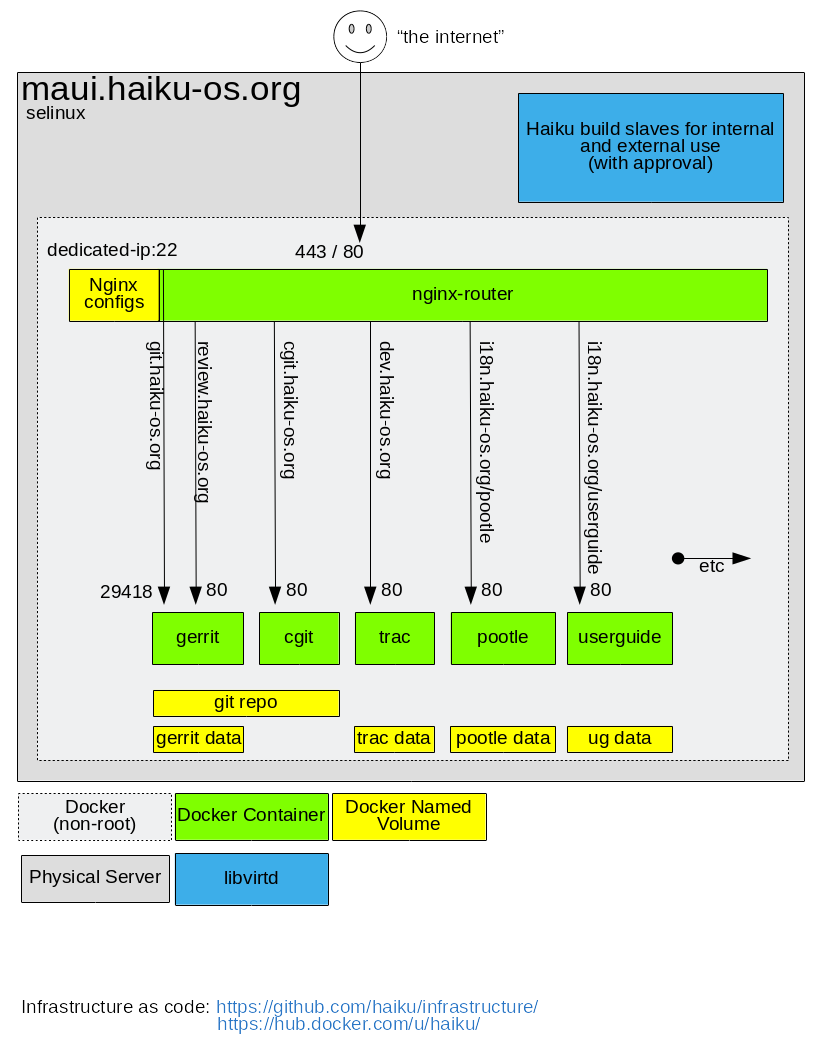
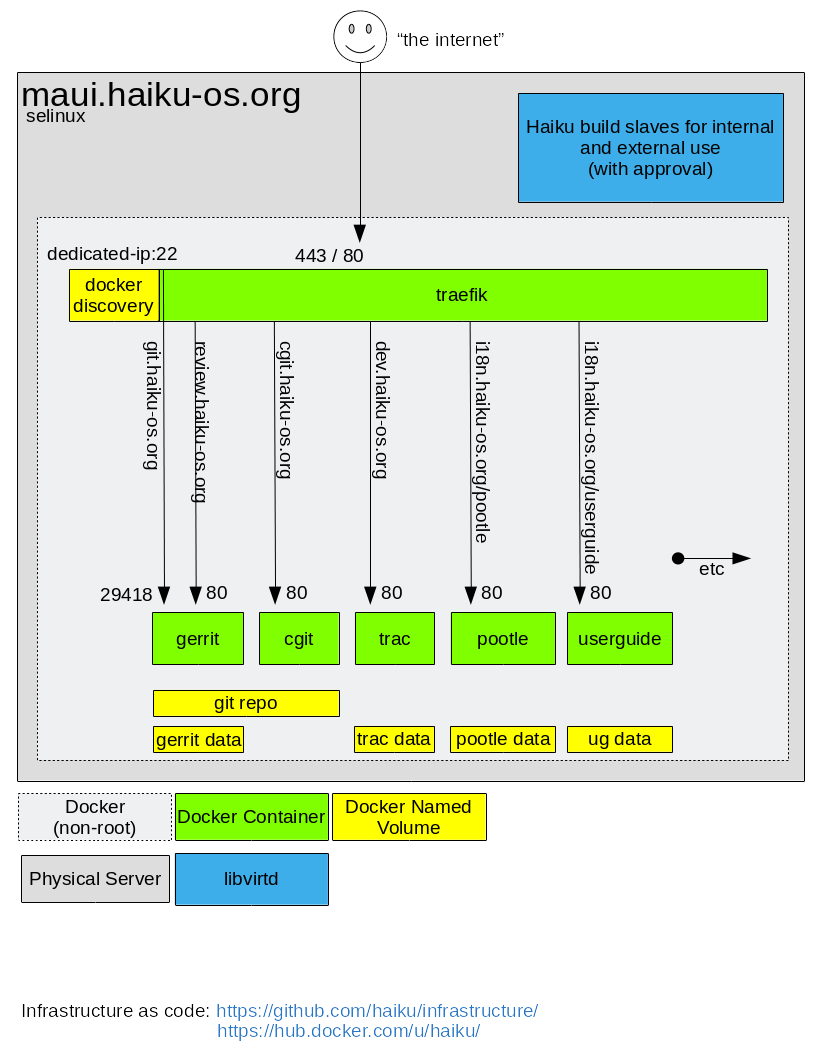
doc: Cleanup post traefik

diff --git a/docs/local-testing.md b/docs/local-testing.md
@@ -10,10 +10,9 @@ Requirements
 1. docker and docker-compose installed
 2. this repository
 3. a persistant volume with the unique maui data
-4. run ```sudo ./tools/fake-cert```
-5. the following added to your /etc/hosts:
+4. Add the following to your /etc/hosts:
 ```
-127.0.0.1 review.haiku-os.org cgit.haiku-os.org git.haiku-os.org haiku-os.org api.haiku-os.org userguide.haiku-os.org ports-mirror.haiku-os.org
+127.0.0.1 review-local.haiku-os.org cgit-local.haiku-os.org git-local.haiku-os.org haiku-os.org api-local.haiku-os.org userguide-local.haiku-os.org ports-mirror-local.haiku-os.org
 ```
 
 Your test environment
@@ -21,8 +20,9 @@ Your test environment
 
 From the root infrastructure directory...
 
-1. docker-compose pull
-2. docker-compose up -d
+1. Disable ACME in data/traefik/traefik.toml
+2. docker-compose pull
+3. DOMAIN_POST="-local" docker-compose up -d
 
 
 Helpful hints
